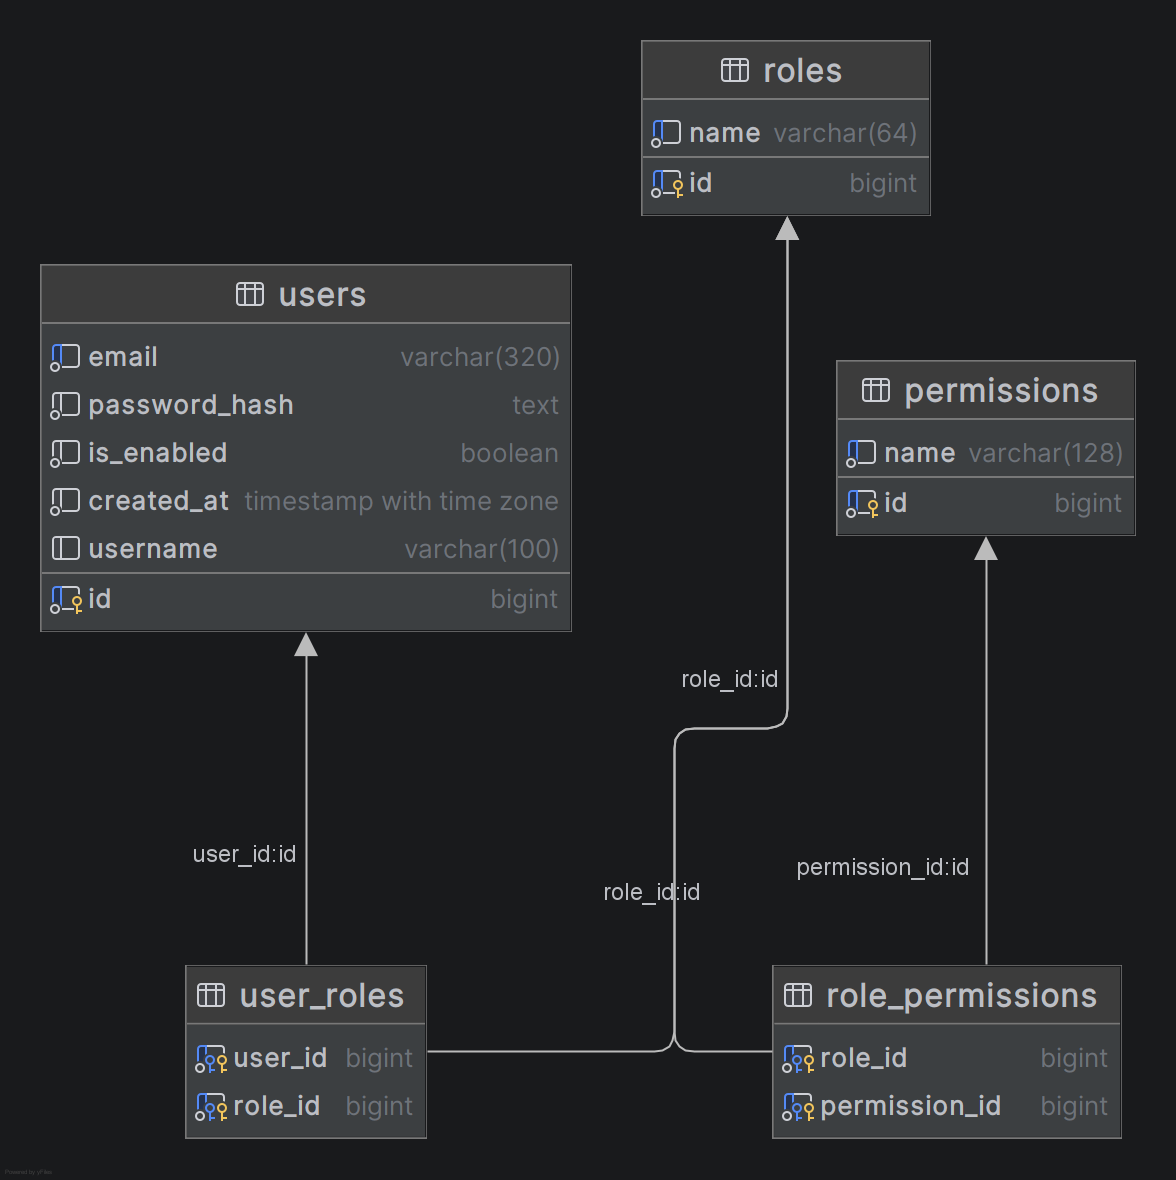
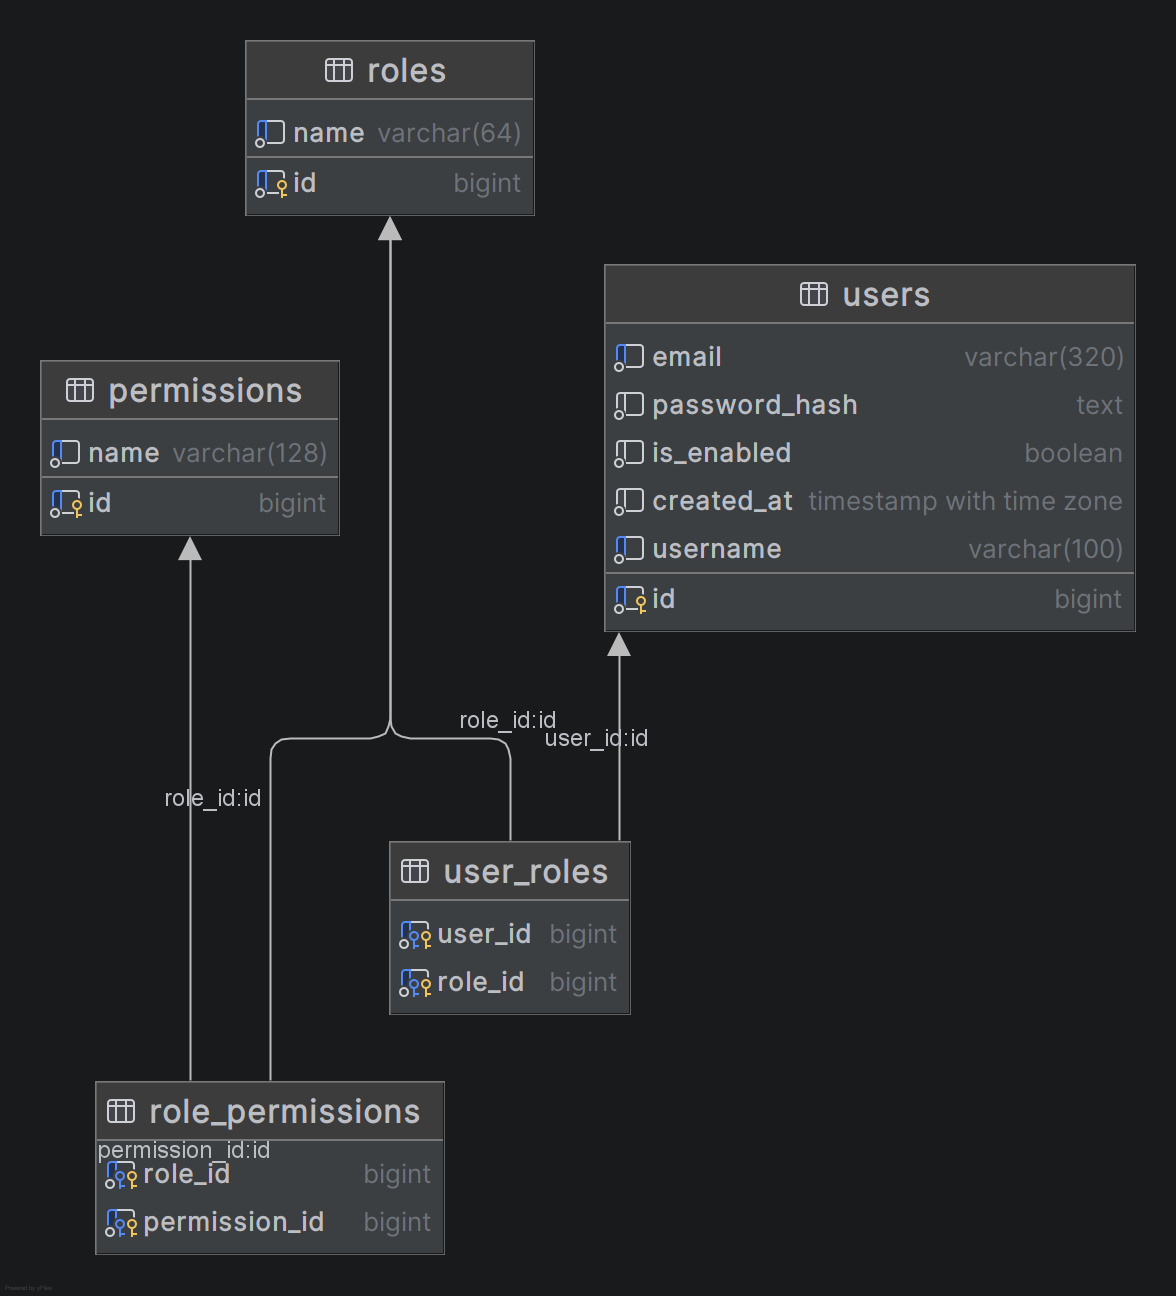
fix: updated permission types

diff --git a/server/src/main/java/com/green/imagecore/entities/PermissionType.java b/server/src/main/java/com/green/imagecore/entities/PermissionType.java
@@ -1,8 +1,9 @@
 package com.green.imagecore.entities;
 
 public enum PermissionType {
-    UPLOAD,
-    VIEW,
-    PHI,
-    RESULTS
+    IMAGE_UPLOAD,
+    IMAGE_VIEW,
+    PHI_VIEW,
+    RESULTS_VIEW,
+    TOOL_EXEC
 }
